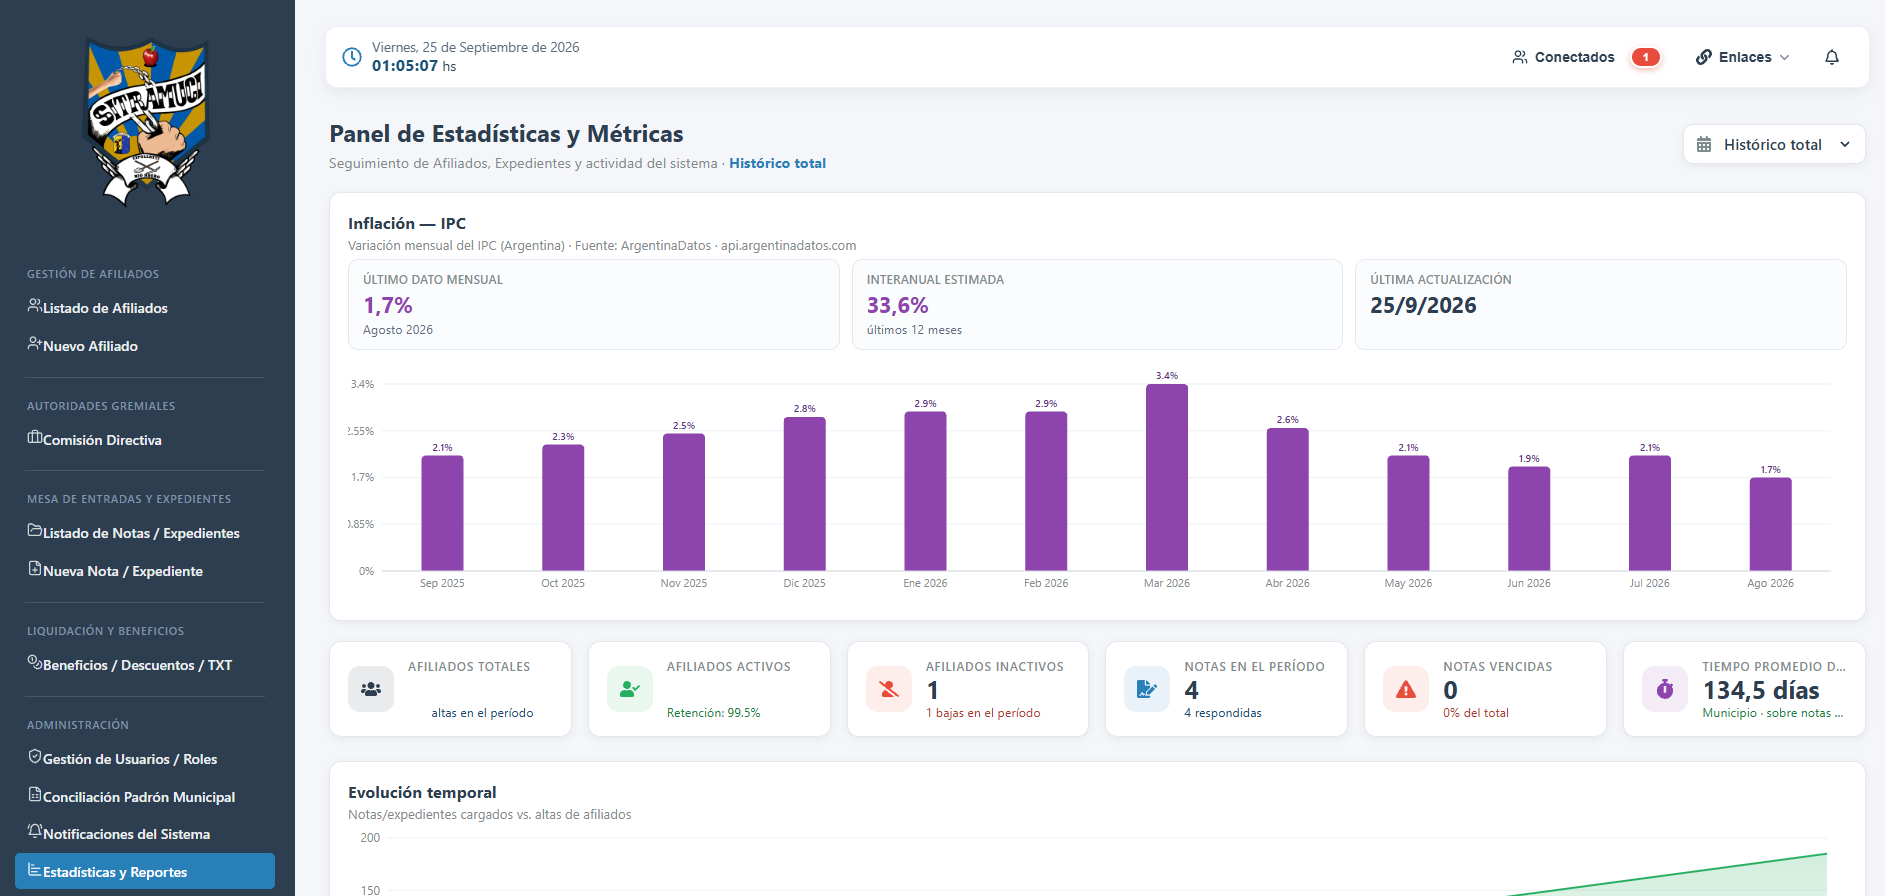
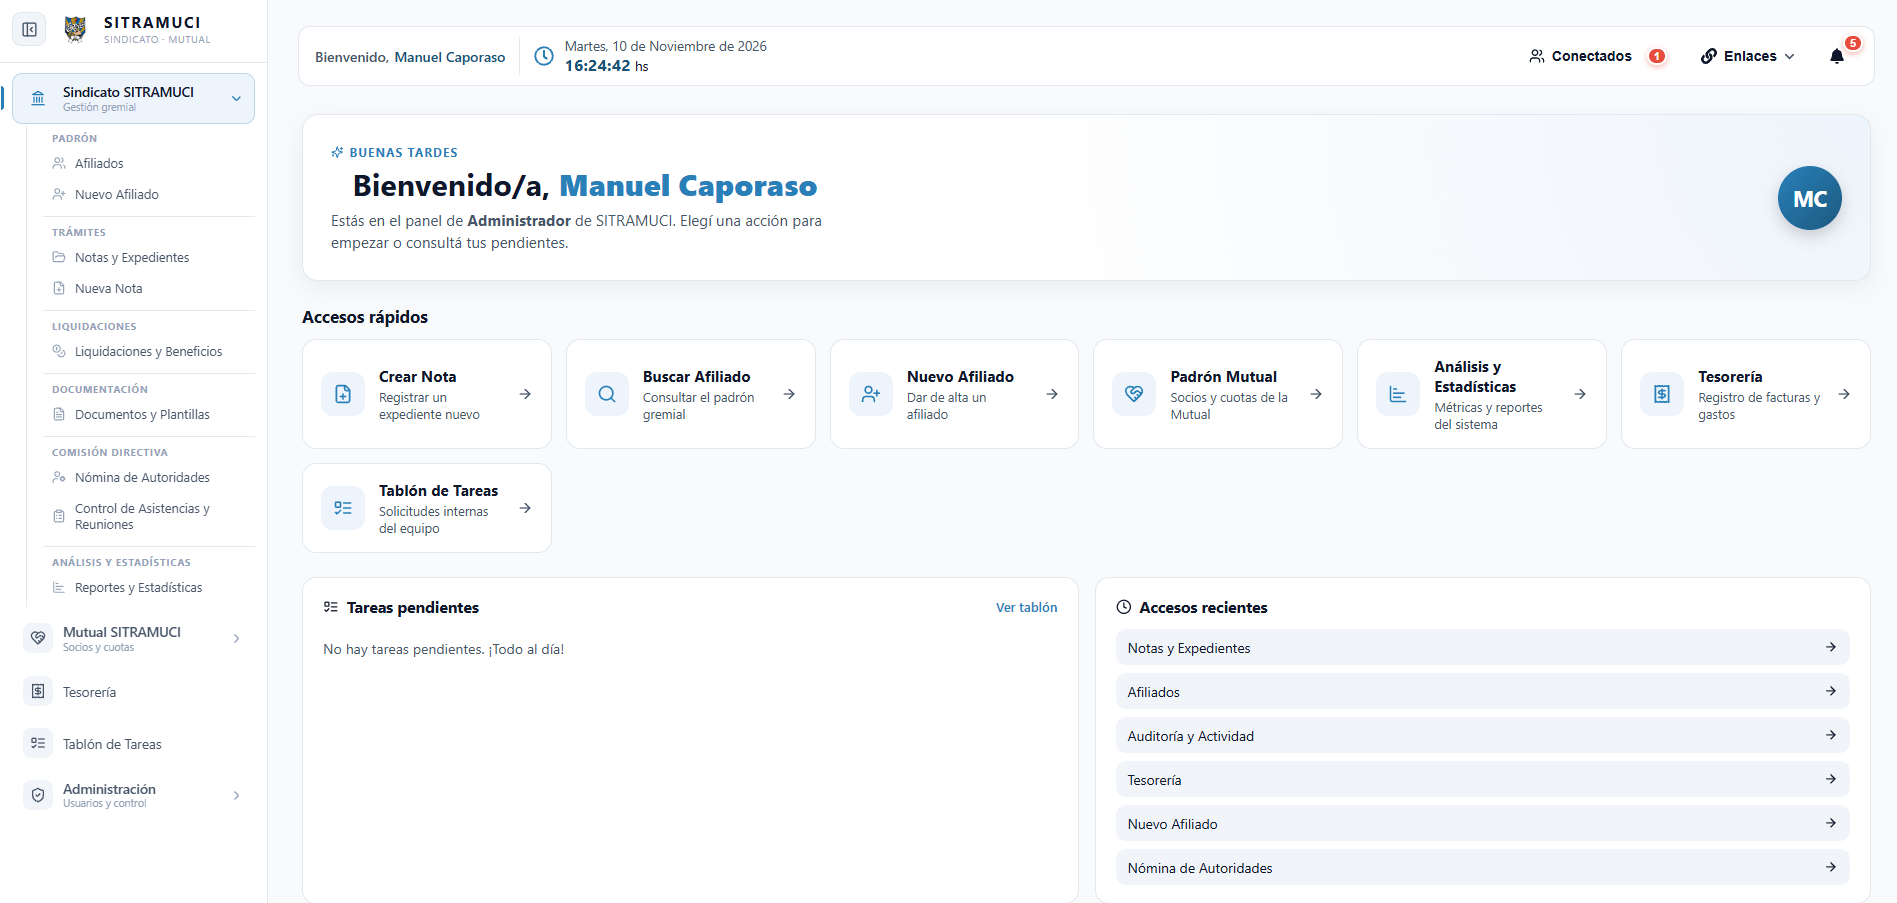
Actualizacion de imagenes de proyectos

diff --git a/app/projects/projects-content.jsx b/app/projects/projects-content.jsx
@@ -35,12 +35,12 @@ const cards = [
     ],
   },
   {
-    title: "Info-Tracker - Capturadora Full-Stack",
+    title: "Info-Tracker - Capturadora de novedades & OCR IA",
     alt: "Info-Tracker aplicación de gestión de novedades",
     src: "/images/proyectos/info-tracker.png",
     description:
-      "Aplicación multiplataforma para capturar novedades de clientes en tiempo real. Incluye reconocimiento de imágenes para automatización de datos.",
-    badges: ["React", "NodeJs", "Express", "MongoDB", "JWT", "Python", "Tesseract OCR"],
+      "Plataforma integral para gestión de lotes agrícolas y captura rápida de novedades en campo. Incluye módulo móvil offline-friendly para operarios, ingesta de planillas por pares (frente/dorso) y pipeline de OCR automatizado con IA para extracción de datos.",
+    badges: ["Next.js","NestJS","TypeScript","Prisma ORM","PostgreSQL","Tailwind CSS","IA / OCR","Docker"],
     buttons: [
       {
         label: "Solicitar acceso al Repo",
@@ -54,7 +54,7 @@ const cards = [
     alt: "Sistema de administración sindical interno",
     src: "/images/proyectos/sindicato.png",
     description:
-      "Sistema de gestión administrativa para el sindicato municipal: manejo de afiliados, reportes de cuotas y paneles internos de control.",
+      "Sistema de gestión administrativa para el sindicato municipal: manejo de afiliados, reportes de cuotas y paneles internos de control administrativo.",
     badges: ["Node.js", "Express", "PostgreSQL", "JWT", "REST API"],
     buttons: [
       {
@@ -69,12 +69,12 @@ const cards = [
     alt: "Tienda online de ropa full-stack",
     src: "/images/proyectos/tienda.png",
     description:
-      "Tienda online con flujo completo de compra: navegación por categorías, carrito de compras persistente y panel de administración.",
-    badges: ["Node.js", "Express", "MySQL", "React", "JWT"],
+      "E-commerce full-stack con arquitectura desacoplada. Incluye catálogo dinámico con variantes (talle/color), reservas de stock temporales, integración real con Mercado Pago (Checkout Pro), gestión de perfil de cliente con direcciones y tablero de administración para despacho y seguimiento de pedidos.",
+    badges: ["Next.js (App Router)","NestJS","Prisma ORM","MariaDB","TypeScript","Mercado Pago API","Tailwind CSS"],
     buttons: [
       {
         label: "Repo",
-        href: "https://github.com/ManuCaporaso/tp-final-icaro-caporaso-fullstack",
+        href: "https://github.com/ManuCaporaso/tienda-online-fullstack",
         className: "btn btn-sm btn-outline btn-primary",
       },
     ],
